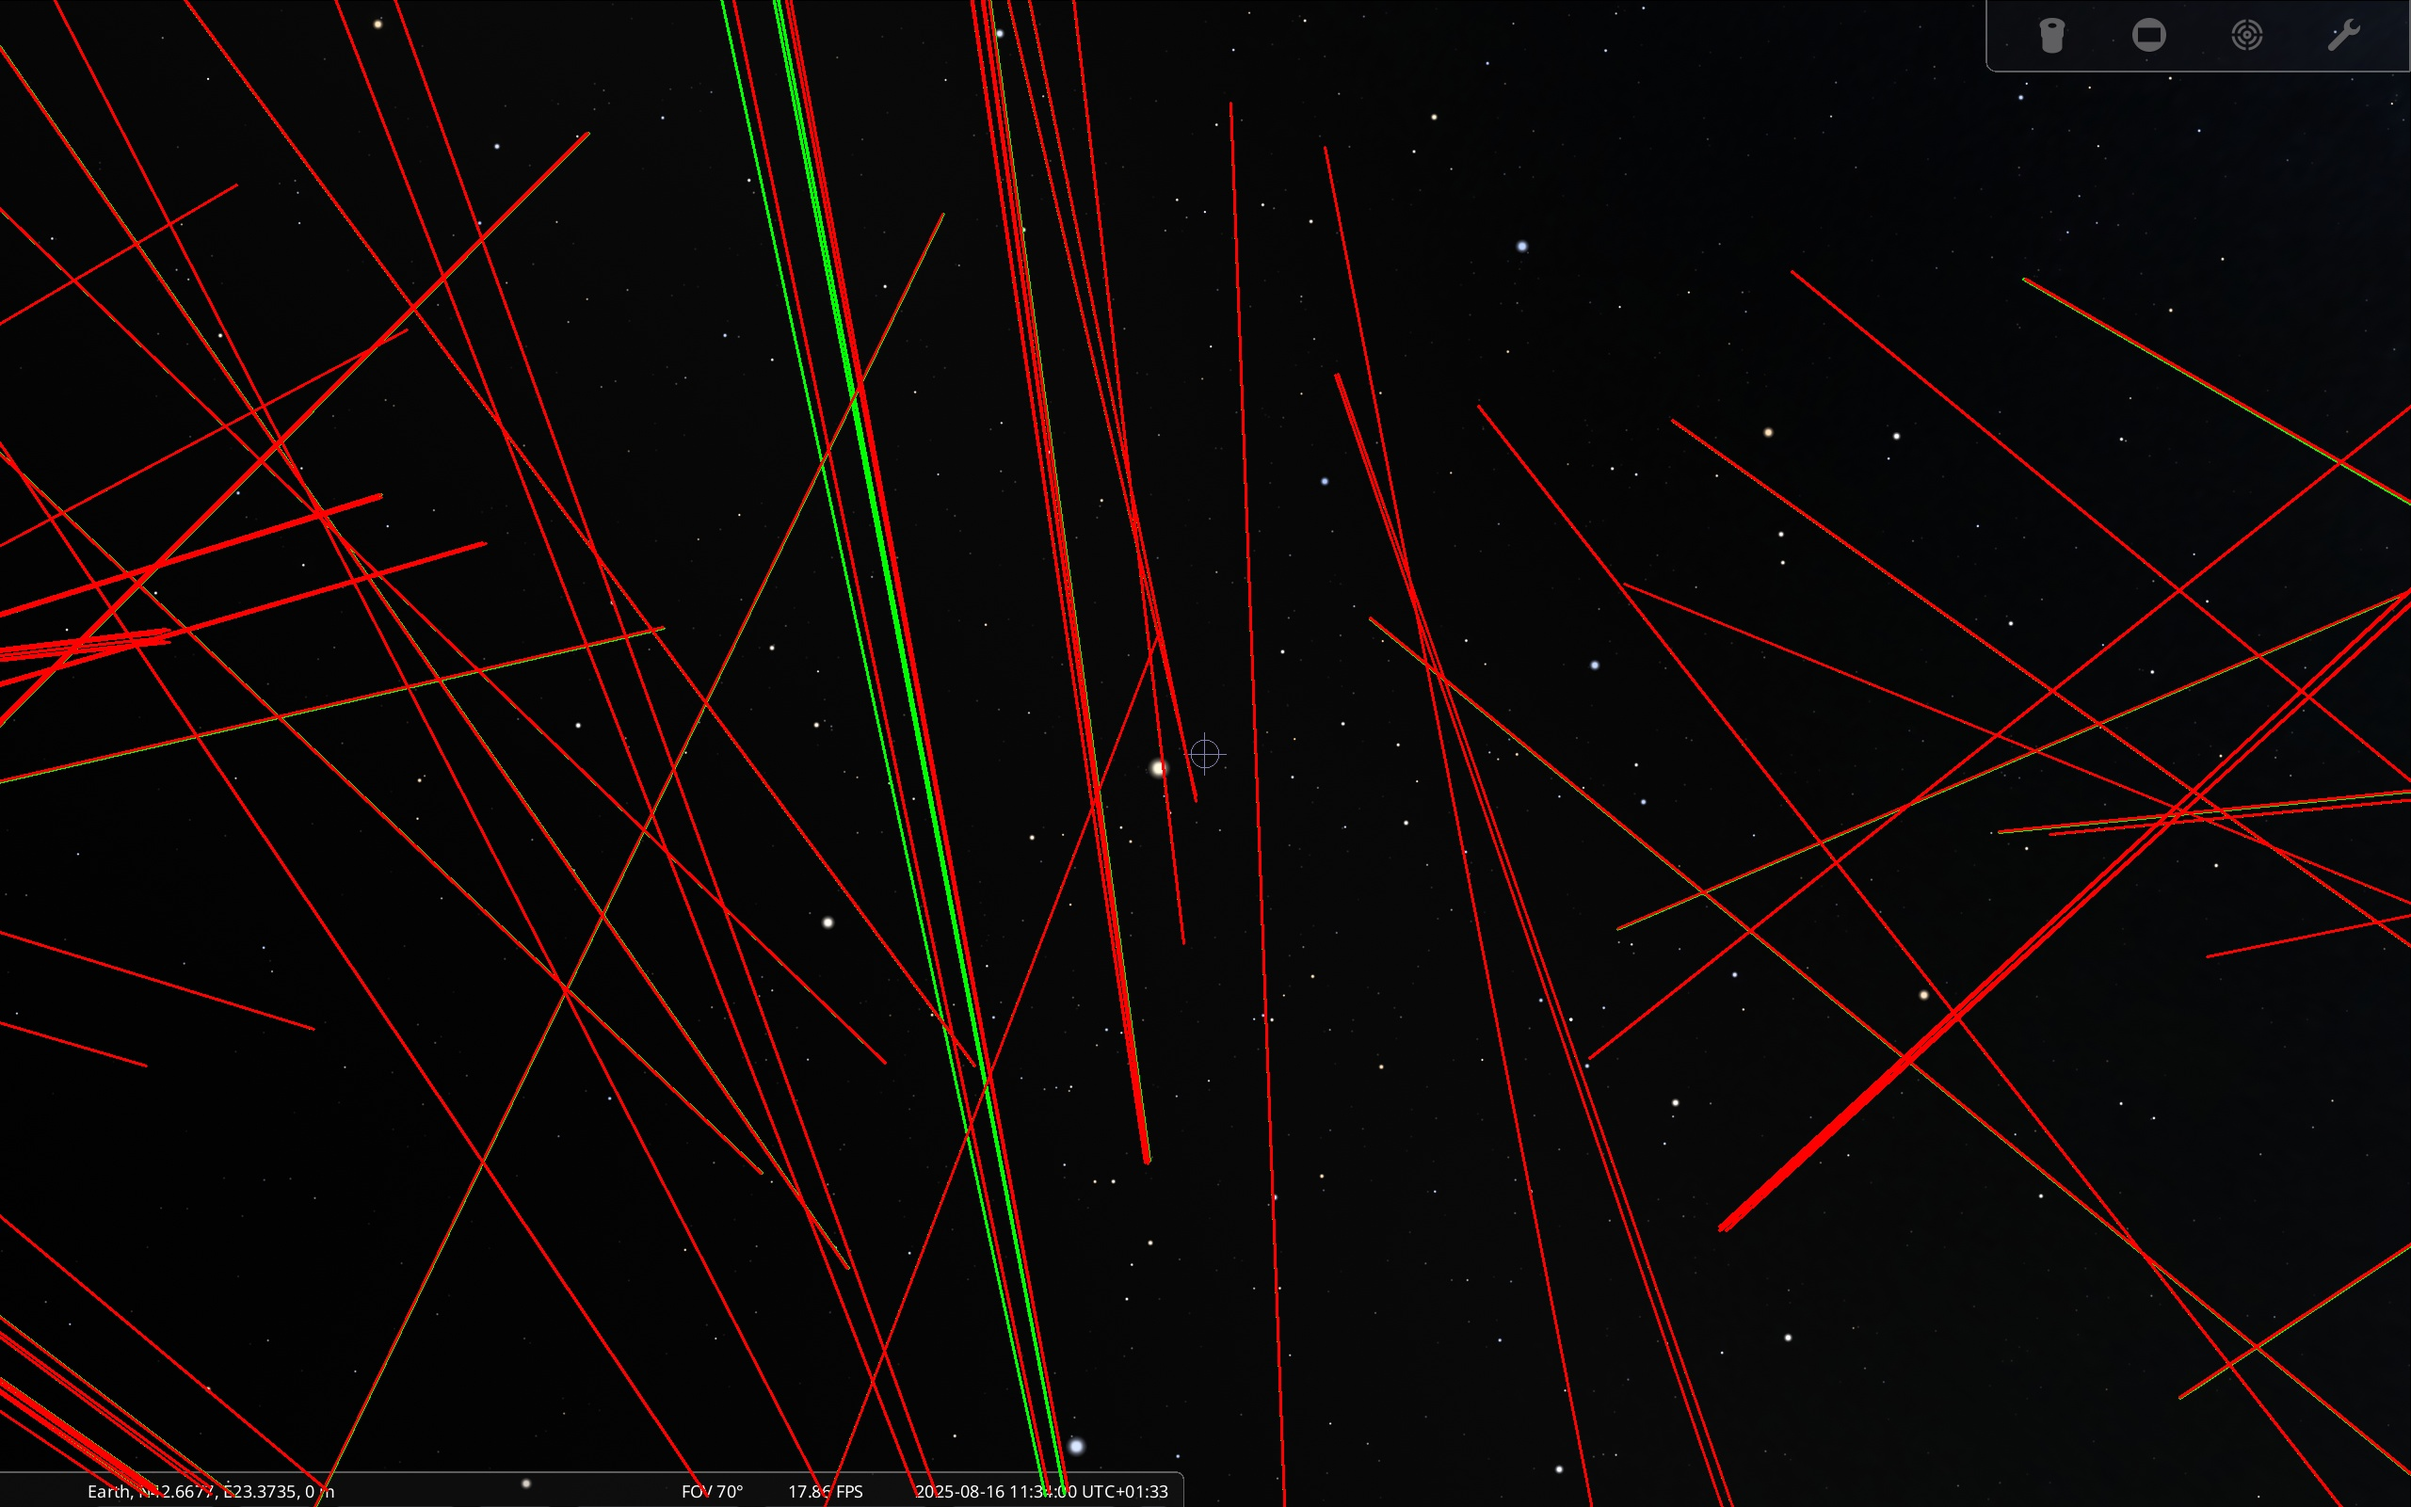
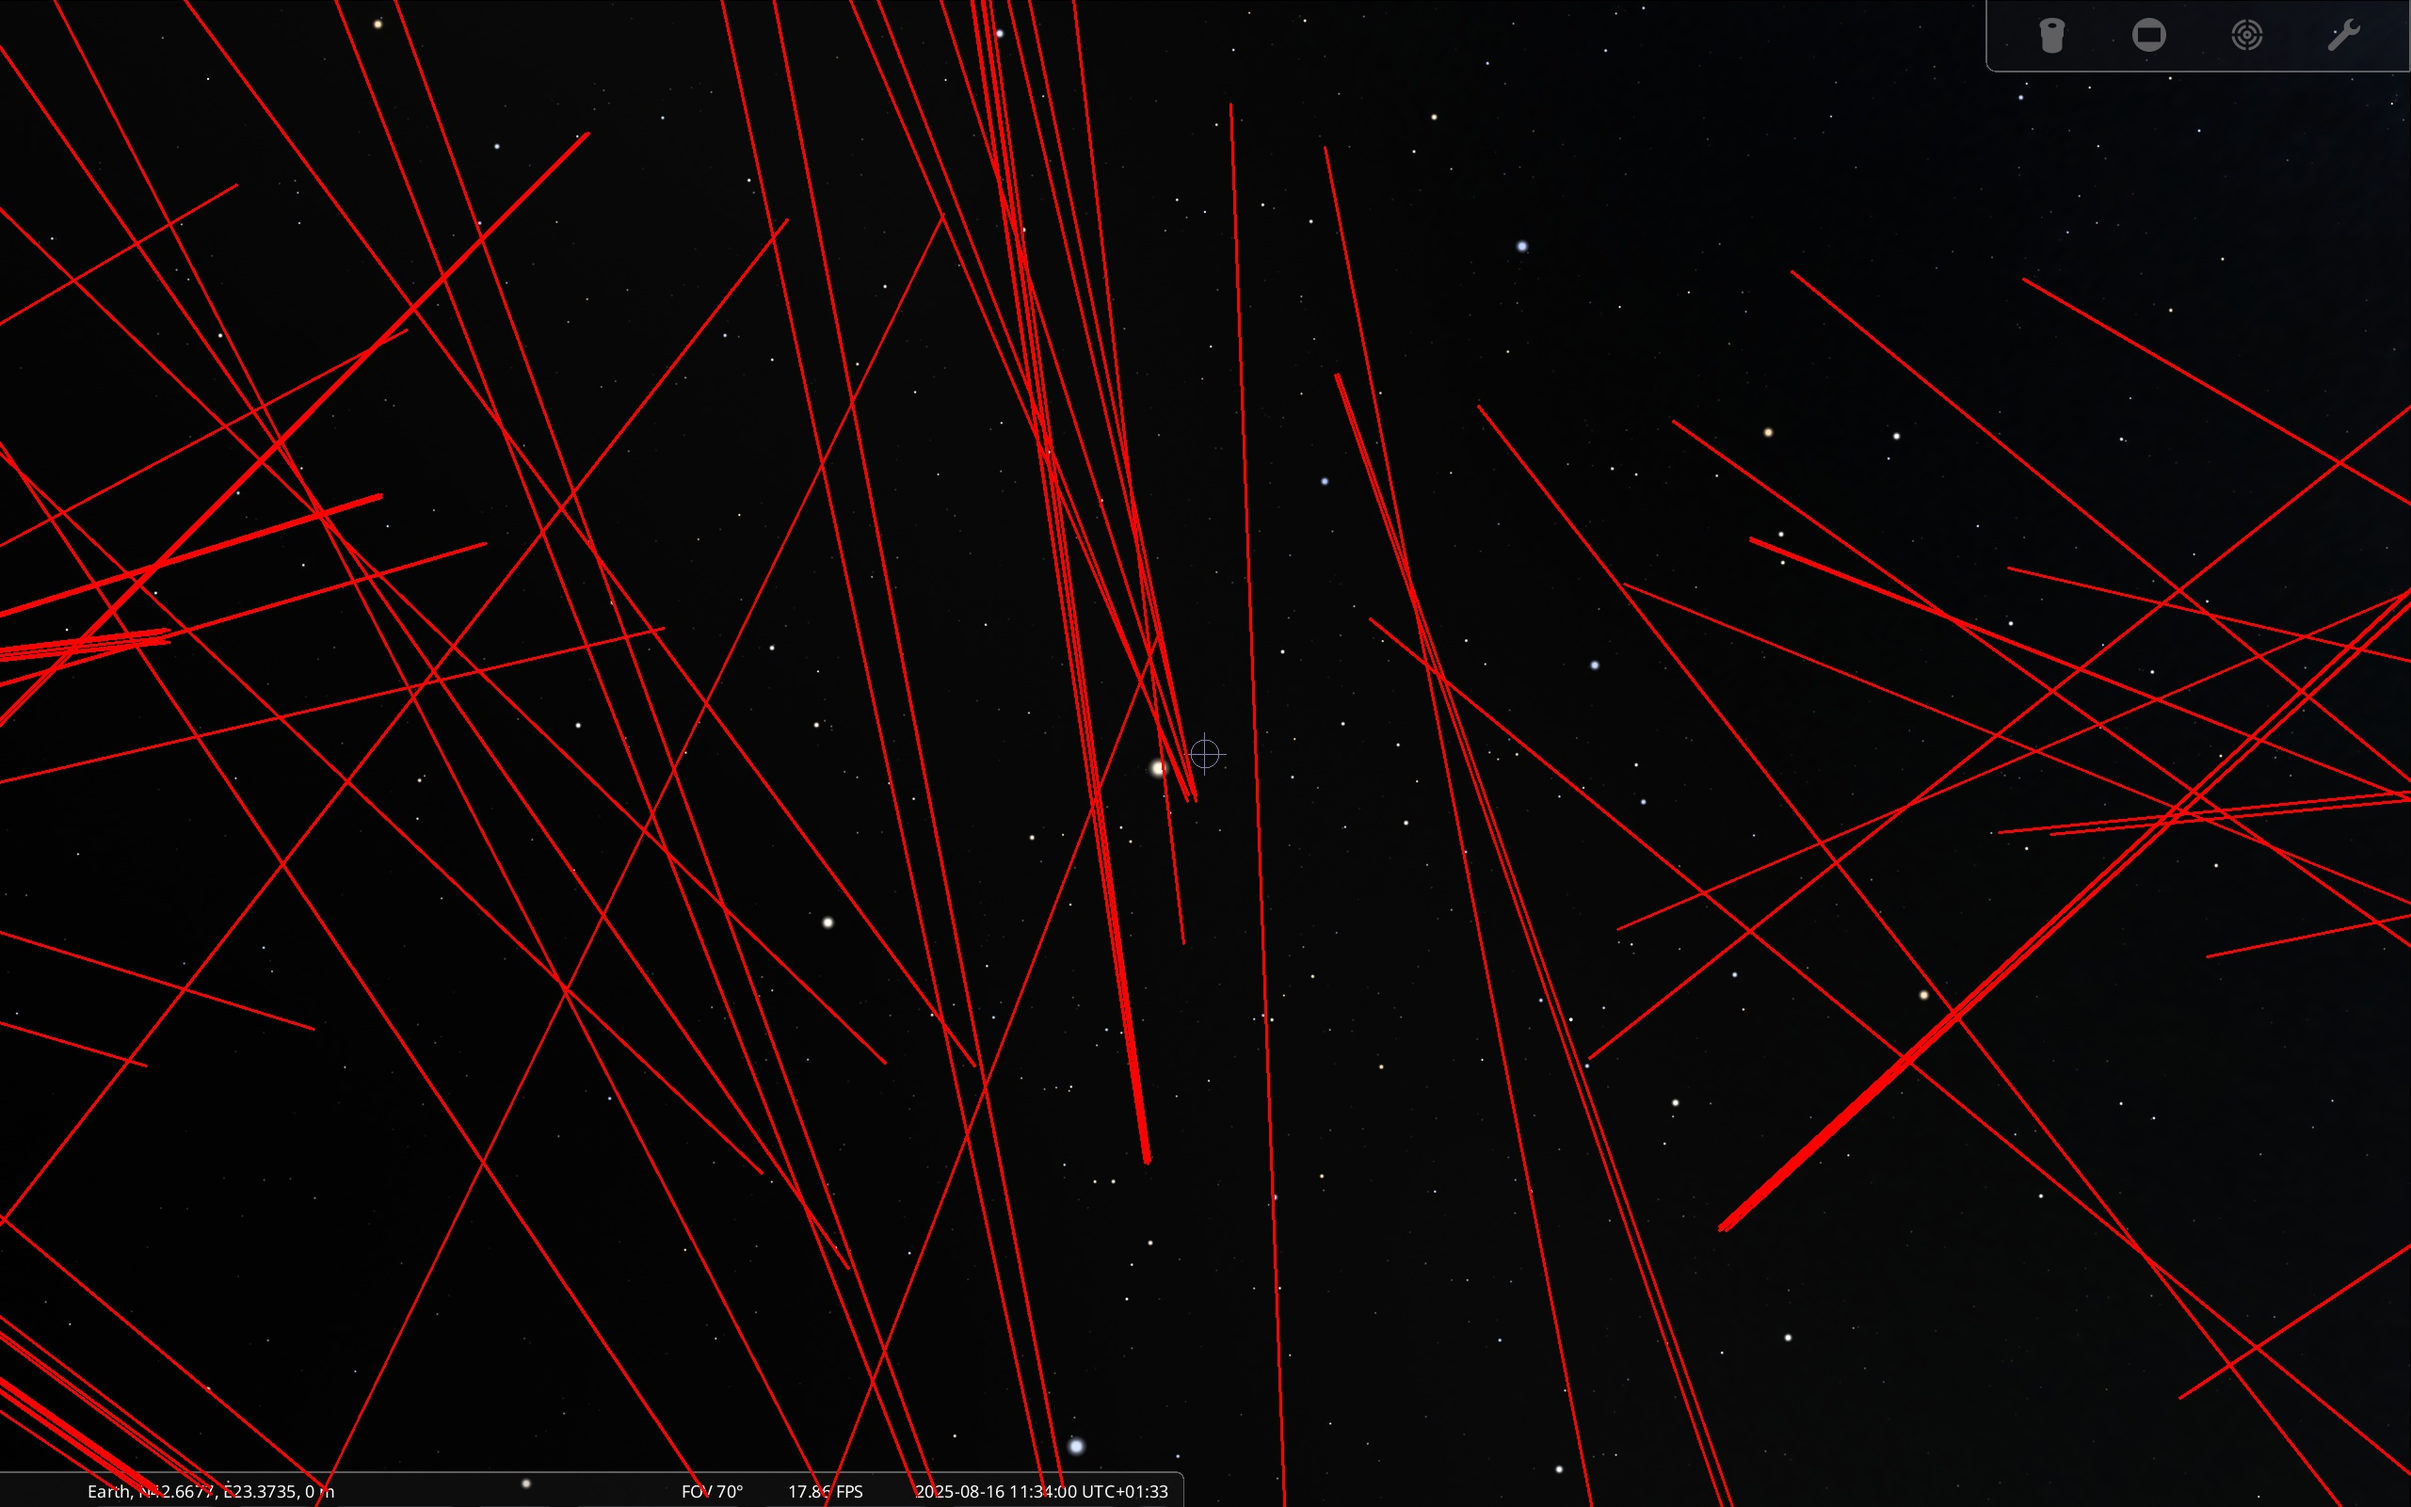
tracking update(new photo resolution)
:wq

diff --git a/src/TRACKING/NEW_track2.py b/src/TRACKING/NEW_track2.py
@@ -19,19 +19,12 @@ def processing_image (img):
     retval,image_processed = cv.threshold(blurred, 200, 255, cv.THRESH_BINARY)
     return image_processed 
 
-def detector(img,w,h,max_corners,quality_level,min_distance,  margin_x,margin_y): 
+def detector(img,w,h,max_corners,quality_level,min_distance): 
 
     p0 = cv.goodFeaturesToTrack(img, 
                             maxCorners=max_corners, 
                             qualityLevel=quality_level, 
                             minDistance=min_distance)
-    '''filtered_p0 = []
-    for pt in p0:
-        x, y = pt.ravel()
-        if margin_x < x < (w - margin_x) and margin_y < y < (h - margin_y):
-            filtered_p0.append([[x, y]])
-    filtered_p0 = np.array(filtered_p0, dtype=np.float32)
-    p0 = filtered_p0'''
     return p0
 
 #criteria = (cv.TERM_CRITERIA_EPS + cv.TERM_CRITERIA_MAX_ITER, 150, 0.01)
@@ -72,7 +65,7 @@ def estimate_rotation(v1, v2):
     return rot
 
 lk_params = dict( winSize = (31, 31),
-                maxLevel =2,
+                maxLevel =0,
                 criteria = (cv.TERM_CRITERIA_EPS | cv.TERM_CRITERIA_COUNT,150, 0.001),
                 flags=cv.OPTFLOW_LK_GET_MIN_EIGENVALS,
                 minEigThreshold=1e-5
@@ -94,26 +87,7 @@ def radec_to_vector(ra_deg, dec_deg):
     y = np.cos(dec) * np.sin(ra)
     z = np.sin(dec)
     return np.array([x, y, z])
-def draw_vectors_on_image(img, points_old, points_new, cx, cy, fx, fy, scale=100):
-    img_out = img.copy()
 
-    # Convert pixels → camera vectors
-    v_old = pixel_to_unit_vector(points_old, cx, cy, fx, fy)
-    v_new = pixel_to_unit_vector(points_new, cx, cy, fx, fy)
-
-    for (u, v), vec in zip(points_old.astype(int), v_old):
-        dx = int(vec[0] * scale)
-        dy = int(-vec[1] * scale)
-        cv.arrowedLine(img_out, (int(u), int(v)), (int(u + dx), int(v + dy)),
-                       (0, 255, 0), 2, tipLength=0.3)  # green = old
-
-    for (u, v), vec in zip(points_new.astype(int), v_new):
-        dx = int(vec[0] * scale)
-        dy = int(-vec[1] * scale)
-        cv.arrowedLine(img_out, (int(u), int(v)), (int(u + dx), int(v + dy)),
-                       (0, 0, 255), 2, tipLength=0.3)  # red = new
-
-    return img_out
 
 
 def build_cam_to_eq(RA0_deg, DEC0_deg, roll_deg=0.0):
@@ -154,16 +128,15 @@ def build_cam_to_eq(RA0_deg, DEC0_deg, roll_deg=0.0):
 
 
 if __name__ == "__main__":
-    img1= cv.imread( "src/test/test_images/Test_tracking/0RA_0DEC_FOV(70).png")
-    img2= cv.imread( "src/test/test_images/Test_tracking/0RA_(0.1)DEC_FOV(70).png")
+    img1= cv.imread("c:/Users/emanu/Downloads/WhatsApp Image 2025-08-18 at 12.25.29.jpeg")
+    img2= cv.imread( r"c:\Users\emanu\Downloads\WhatsApp Image 2025-08-18 at 12.32.48.jpeg")
 
     cx,cy,fx,fy=get_intrinsics(img1)
     img_processed1=processing_image(img1)
     img_processed2=processing_image(img2)
     h, w =  img1.shape[:2]
-    h1=0.25*h
-    w1=0.25*w
-    p0=detector(img_processed1,w,h,max_corners = 1000,quality_level =0.001,min_distance =3,  margin_x=w1 ,margin_y=h1)
+
+    p0=detector(img_processed1,w,h,max_corners = 1000,quality_level =0.001,min_distance =3, )
     if p0 is None:
         print("No features found in the first image!")
     else:
@@ -213,14 +186,6 @@ if __name__ == "__main__":
     cv.imwrite("output_tracking.jpg", img_tracked)
     
 
-    #draw the vectors
-    img_with_vecs = draw_vectors_on_image(img2, good_old, good_new, cx, cy, fx, fy, scale=80)
-
-    cv.imshow("Old (green) vs New (red) Camera Vectors", img_with_vecs)
-    cv.waitKey(0)
-    cv.destroyAllWindows()
-
-    cv.imwrite("vectors_comparison.jpg", img_with_vecs)
 
 
 

diff --git a/src/TRACKING/track.py b/src/TRACKING/track.py
@@ -9,11 +9,11 @@ def get_intrinsics (img, fov_deg =70):
     fy = fx * (h / w)                       # scale for vertical pixels
     cy = h / 2.0
     cx= w / 2.0
-    return cx,cy,fx,fy
+    return cx,cy,fx,fy,h,w
 
 img1=cv.imread("src/test/test_images/Test_tracking/0RA_0DEC_FOV(5).png")
-cx,cy,fx,fy=get_intrinsics(img1)
-print(cx,cy,fx,fy)
+cx,cy,fx,fy,h,w=get_intrinsics(img1)
+print(cx,cy,fx,fy,h,w)
 
 def estimate_rotation(v1, v2):
     v1_mean = np.mean(v1, axis=0)
@@ -84,34 +84,3 @@ def pixel_to_unit_vector(points, cx, cy, fx, fy):
         vectors.append(vec)
     return np.array(vectors)
 
-def draw_vectors_on_image(img, points, vectors, scale=100, color=(0,255,0)):
-    """
-    Draws arrows for unnormalized camera vectors on the image.
-    - img: input image (BGR)
-    - points: Nx2 array of (u,v) pixel coordinates
-    - vectors: Nx3 array of vectors (not normalized)
-    - scale: multiplier to make arrows visible
-    - color: arrow color (B,G,R)
-    """
-    img_out = img1.copy()
-    for (u, v), vec in zip(points.astype(int), vectors):
-        dx = int(vec[0] * scale)
-        dy = int(-vec[1] * scale)   # flip sign back for display
-
-        start_point = (int(u), int(v))
-        end_point   = (int(u + dx), int(v + dy))
-
-        cv.arrowedLine(img_out, start_point, end_point, color, 2, tipLength=0.3)
-
-    return img_out
-
-
-# Example usage:
-# Assuming you already computed `good_old` and intrinsics
-v_raw = pixel_to_unit_vector(good_old, cx, cy, fx, fy)  # without normalization
-img_with_vecs = draw_vectors_on_image(img1, good_old, v_raw, scale=80, color=(0,0,255))
-
-cv.imshow("Raw Vectors on Image", img_with_vecs)
-cv.waitKey(0)
-cv.destroyAllWindows()
-cv.imwrite("vectors_raw_overlay.jpg", img_with_vecs)
